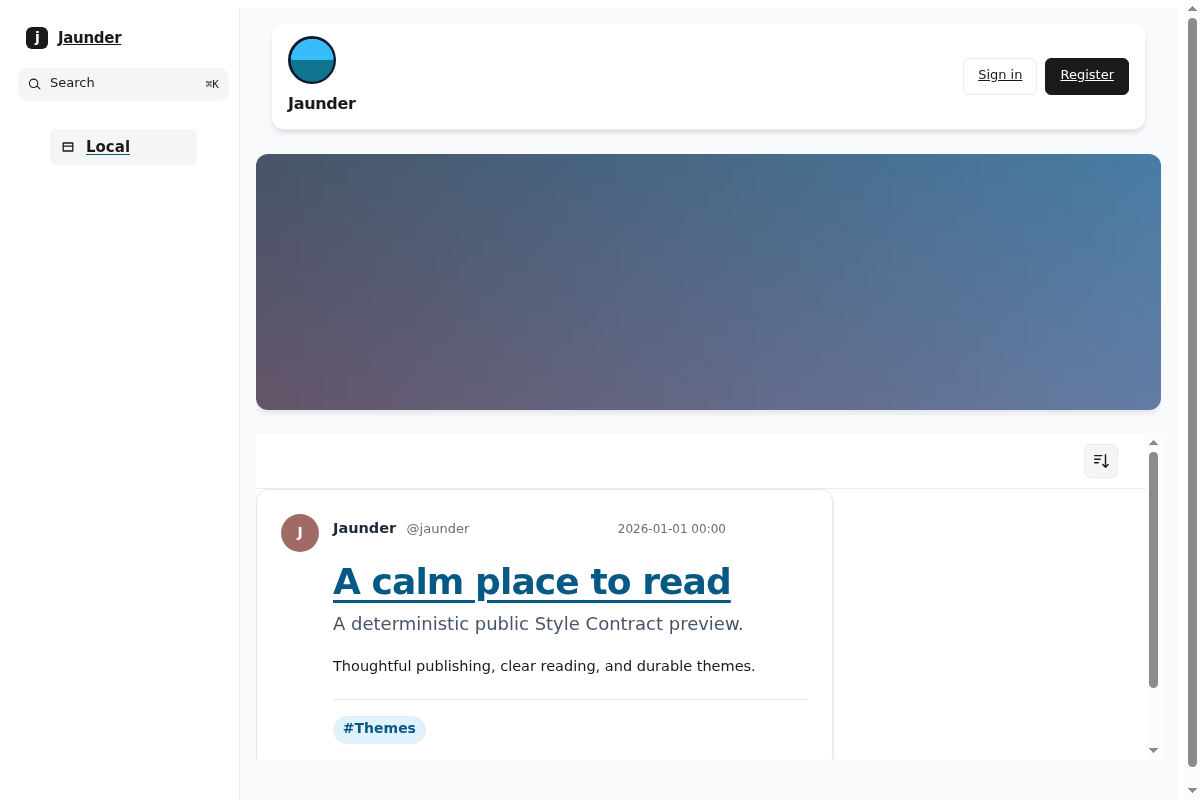
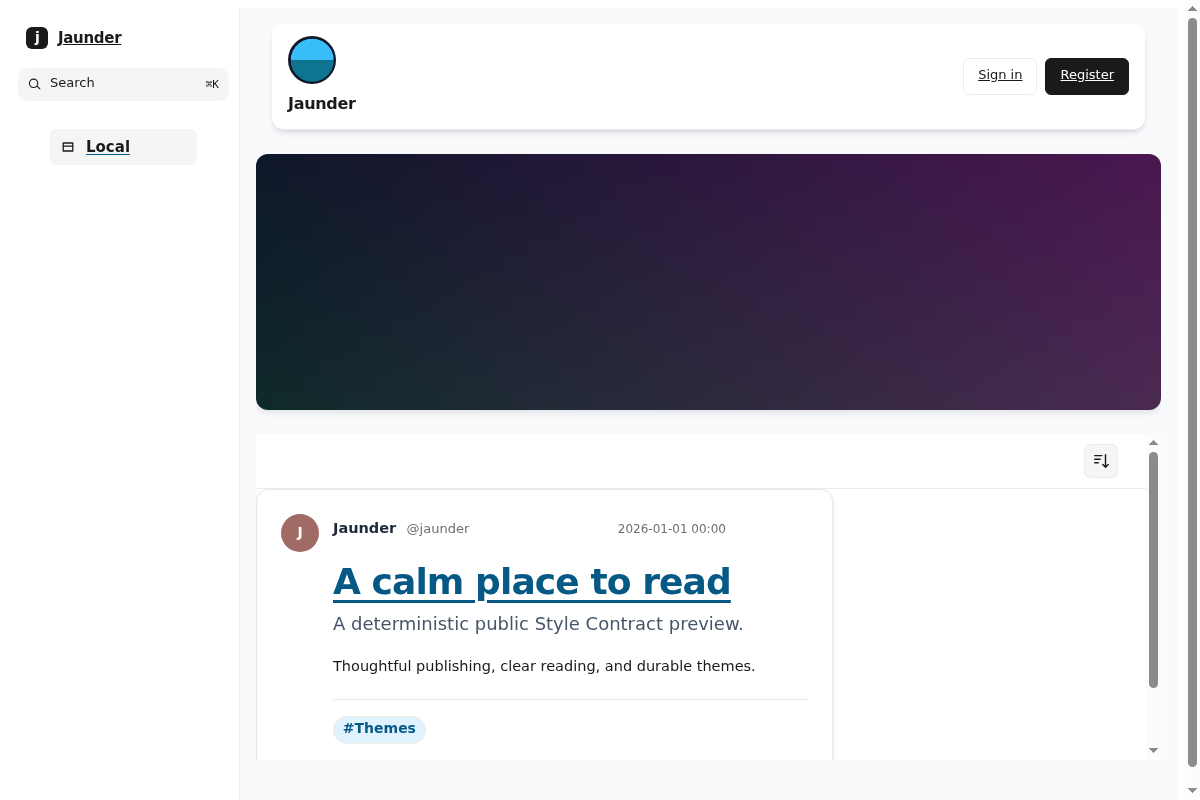
fix: preserve dark route contrast (#1549)

Changed region(s): [[0.2158, 0.1875, 0.9867, 0.5312]]

diff --git a/style.css b/style.css
@@ -1,1 +1,1 @@
-@font-face{font-family:TailwindInter;src:url(assets/inter-latin-regular.woff2);font-display:swap}:root{color:#1e293b;background:#f8fafc;min-height:100vh;font-family:TailwindInter;line-height:1.6}[data-jaunder-part=primary-navigation] a,[data-jaunder-part=post] a,[data-jaunder-part=tag-list] a{color:#075985;text-underline-offset:.16em;text-decoration-thickness:.08em}[data-jaunder-part=primary-navigation] a:hover,[data-jaunder-part=post] a:hover{color:#075985}a:focus-visible,button:focus-visible{outline-offset:3px;outline:3px solid #0284c7}[data-jaunder-part=masthead]{box-sizing:border-box;background:#fff;border-radius:.75rem;align-items:center;gap:1rem;width:min(100% - 2rem,64rem);min-height:4.5rem;margin:1rem auto 0;padding:.75rem 1rem;display:flex;box-shadow:0 4px 6px -1px #0f172a1a,0 2px 4px -2px #0f172a1a}[data-jaunder-part=logo]{object-fit:cover;border-radius:9999px;flex:none;width:3rem;height:3rem}[data-jaunder-part=site-title]{color:#0f172a;letter-spacing:-.025em;font-size:1.5rem;font-weight:700}[data-jaunder-part=primary-navigation]{flex-wrap:wrap;gap:.5rem 1rem;width:min(100% - 2rem,64rem);margin:.75rem auto;padding:0 1rem;display:flex}[data-jaunder-part=primary-navigation] a{font-size:.9375rem;font-weight:600}[data-jaunder-part=main]{box-sizing:border-box;width:min(100% - 2rem,64rem);margin:0 auto 3rem}[data-jaunder-part=header-image]{object-fit:cover;border-radius:.75rem;width:100%;max-height:16rem;margin:1.5rem 0;display:block;box-shadow:0 4px 6px -1px #0f172a1a}[data-jaunder-part=post-list]{gap:1.5rem;display:grid}[data-jaunder-part=post]{background:#fff;border:1px solid #e2e8f0;border-radius:.75rem;padding:1.5rem;overflow:visible;box-shadow:0 4px 6px -1px #0f172a1a,0 2px 4px -2px #0f172a1a}[data-jaunder-part=post-header]{color:#475569;flex-wrap:wrap;align-items:center;gap:.35rem .65rem;font-size:.875rem;display:flex}[data-jaunder-part=avatar]{object-fit:cover;border-radius:9999px;width:2rem;height:2rem}[data-jaunder-part=author-name]{color:#1e293b;font-weight:700}[data-jaunder-part=post-title]{color:#1e293b;letter-spacing:-.025em;margin:1rem 0 .5rem;font-size:clamp(1.75rem,4vw,2.25rem);line-height:1.15}[data-jaunder-part=post-summary]{color:#475569;margin:0 0 1rem;font-size:1.125rem}[data-jaunder-part=post-body]{color:#334155}[data-jaunder-part=post-body] :is(h1,h2,h3){color:#1e293b;margin:1.5em 0 .6em;line-height:1.25}[data-jaunder-part=post-body] :is(p,ul,ol,blockquote,pre){margin:1em 0}[data-jaunder-part=post-body] blockquote{color:#475569;border-left:.25rem solid #94a3b8;margin-left:0;padding-left:1rem}[data-jaunder-part=post-body] :is(code,pre){color:#0f172a;background:#e2e8f0;border-radius:.375rem;font-family:ui-monospace,monospace}[data-jaunder-part=post-body] code{padding:.15em .3em}[data-jaunder-part=post-body] pre{padding:1rem;overflow-x:auto}[data-jaunder-part=post-footer]{border-top:1px solid #e2e8f0;margin-top:1.25rem;padding-top:1rem}[data-jaunder-part=tag-list]{flex-wrap:wrap;gap:.5rem;margin:0;padding:0;list-style:none;display:flex}[data-jaunder-part=tag]{color:#075985;background:#e0f2fe;border-radius:9999px;padding:.2rem .55rem;font-size:.875rem;font-weight:600;display:inline-block}[data-jaunder-part=continuation]{color:#fff;cursor:pointer;background:#0284c7;border:0;border-radius:.5rem;justify-self:start;padding:.6rem 1rem;font-family:TailwindInter;font-weight:700}[data-jaunder-part=continuation]:hover{background:#0369a1}@media (min-width:48rem){[data-jaunder-part=post-list]{grid-template-columns:minmax(0,2fr) minmax(15rem,1fr)}[data-jaunder-part=post],[data-jaunder-part=continuation]{grid-column:1}}@media (prefers-color-scheme:dark){:root{color:#e2e8f0;background:#1f2937}[data-jaunder-part=primary-navigation] a,[data-jaunder-part=post] a{color:#7dd3fc}[data-jaunder-part=tag-list] a,[data-jaunder-part=primary-navigation] a:hover,[data-jaunder-part=post] a:hover{color:#bae6fd}[data-jaunder-part=masthead],[data-jaunder-part=post]{color:#e2e8f0;background:#374151;border-color:#4b5563}[data-jaunder-part=site-title],[data-jaunder-part=author-name]{color:#e2e8f0}[data-jaunder-part=post-title],[data-jaunder-part=post-title] a,[data-jaunder-part=post-body] :is(h1,h2,h3){color:#f1f5f9}[data-jaunder-part=post-summary],[data-jaunder-part=post-header]{color:#cbd5e1}[data-jaunder-part=post-body]{color:#d1d5db}[data-jaunder-part=post-body] :is(code,pre){color:#e2e8f0;background:#0f172a}[data-jaunder-part=tag]{color:#bae6fd;background:#164e63}}
+@font-face{font-family:TailwindInter;src:url(assets/inter-latin-regular.woff2);font-display:swap}:root{color:#1e293b;background:#f8fafc;min-height:100vh;font-family:TailwindInter;line-height:1.6}[data-jaunder-part=primary-navigation] a,[data-jaunder-part=post] a,[data-jaunder-part=tag-list] a{color:#075985;text-underline-offset:.16em;text-decoration-thickness:.08em}[data-jaunder-part=primary-navigation] a:hover,[data-jaunder-part=post] a:hover{color:#075985}a:focus-visible,button:focus-visible{outline-offset:3px;outline:3px solid #0284c7}[data-jaunder-part=masthead]{box-sizing:border-box;background:#fff;border-radius:.75rem;align-items:center;gap:1rem;width:min(100% - 2rem,64rem);min-height:4.5rem;margin:1rem auto 0;padding:.75rem 1rem;display:flex;box-shadow:0 4px 6px -1px #0f172a1a,0 2px 4px -2px #0f172a1a}[data-jaunder-part=logo]{object-fit:cover;border-radius:9999px;flex:none;width:3rem;height:3rem}[data-jaunder-part=site-title]{color:#0f172a;letter-spacing:-.025em;font-size:1.5rem;font-weight:700}[data-jaunder-part=primary-navigation]{flex-wrap:wrap;gap:.5rem 1rem;width:min(100% - 2rem,64rem);margin:.75rem auto;padding:0 1rem;display:flex}[data-jaunder-part=primary-navigation] a{font-size:.9375rem;font-weight:600}[data-jaunder-part=main]{box-sizing:border-box;width:min(100% - 2rem,64rem);margin:0 auto 3rem}[data-jaunder-part=header-image]{object-fit:cover;border-radius:.75rem;width:100%;max-height:16rem;margin:1.5rem 0;display:block;box-shadow:0 4px 6px -1px #0f172a1a}[data-jaunder-part=post-list]{gap:1.5rem;display:grid}[data-jaunder-part=post]{background:#fff;border:1px solid #e2e8f0;border-radius:.75rem;padding:1.5rem;overflow:visible;box-shadow:0 4px 6px -1px #0f172a1a,0 2px 4px -2px #0f172a1a}[data-jaunder-part=post-header]{color:#475569;flex-wrap:wrap;align-items:center;gap:.35rem .65rem;font-size:.875rem;display:flex}[data-jaunder-part=avatar]{object-fit:cover;border-radius:9999px;width:2rem;height:2rem}[data-jaunder-part=author-name]{color:#1e293b;font-weight:700}[data-jaunder-part=post-title]{color:#1e293b;letter-spacing:-.025em;margin:1rem 0 .5rem;font-size:clamp(1.75rem,4vw,2.25rem);line-height:1.15}[data-jaunder-part=post-summary]{color:#475569;margin:0 0 1rem;font-size:1.125rem}[data-jaunder-part=post-body]{color:#334155}[data-jaunder-part=post-body] :is(h1,h2,h3){color:#1e293b;margin:1.5em 0 .6em;line-height:1.25}[data-jaunder-part=post-body] :is(p,ul,ol,blockquote,pre){margin:1em 0}[data-jaunder-part=post-body] blockquote{color:#475569;border-left:.25rem solid #94a3b8;margin-left:0;padding-left:1rem}[data-jaunder-part=post-body] :is(code,pre){color:#0f172a;background:#e2e8f0;border-radius:.375rem;font-family:ui-monospace,monospace}[data-jaunder-part=post-body] code{padding:.15em .3em}[data-jaunder-part=post-body] pre{padding:1rem;overflow-x:auto}[data-jaunder-part=post-footer]{border-top:1px solid #e2e8f0;margin-top:1.25rem;padding-top:1rem}[data-jaunder-part=tag-list]{flex-wrap:wrap;gap:.5rem;margin:0;padding:0;list-style:none;display:flex}[data-jaunder-part=tag]{color:#075985;background:#e0f2fe;border-radius:9999px;padding:.2rem .55rem;font-size:.875rem;font-weight:600;display:inline-block}[data-jaunder-part=continuation]{color:#fff;cursor:pointer;background:#0284c7;border:0;border-radius:.5rem;justify-self:start;padding:.6rem 1rem;font-family:TailwindInter;font-weight:700}[data-jaunder-part=continuation]:hover{background:#0369a1}@media (min-width:48rem){[data-jaunder-part=post-list]{grid-template-columns:minmax(0,2fr) minmax(15rem,1fr)}[data-jaunder-part=post],[data-jaunder-part=continuation]{grid-column:1}}@media (prefers-color-scheme:dark){:root{color:#e2e8f0;background:#1f2937}[data-jaunder-part=primary-navigation] a,[data-jaunder-part=post] a{color:#7dd3fc}[data-jaunder-part=tag-list] a,[data-jaunder-part=primary-navigation] a:hover,[data-jaunder-part=post] a:hover{color:#bae6fd}[data-jaunder-part=masthead],[data-jaunder-part=post]{color:#e2e8f0;background:#374151;border-color:#4b5563}[data-jaunder-part=site-title],[data-jaunder-part=author-name]{color:#e2e8f0}[data-jaunder-part=post-title],[data-jaunder-part=post-title] a,[data-jaunder-part=masthead] h1,[data-jaunder-part=post-body] :is(h1,h2,h3){color:#f1f5f9}[data-jaunder-part=post-summary],[data-jaunder-part=post-header],[data-jaunder-part=author-handle],[data-jaunder-part=published-time]{color:#cbd5e1}[data-jaunder-part=post-body],[data-jaunder-part=post-body] :is(p,ul,ol,blockquote){color:#d1d5db}[data-jaunder-part=post-body] :is(code,pre){color:#e2e8f0;background:#0f172a}[data-jaunder-part=tag]{color:#bae6fd;background:#164e63}}

diff --git a/src/theme.css b/src/theme.css
@@ -38,4 +38,4 @@ button:focus-visible { outline: 3px solid #0284c7; outline-offset: 3px; }
 [data-jaunder-part="continuation"] { justify-self: start; padding: .6rem 1rem; border: 0; border-radius: .5rem; background: #0284c7; color: #fff; font-family: TailwindInter; font-weight: 700; cursor: pointer; }
 [data-jaunder-part="continuation"]:hover { background: #0369a1; }
 @media (min-width: 48rem) { [data-jaunder-part="post-list"] { grid-template-columns: minmax(0, 2fr) minmax(15rem, 1fr); } [data-jaunder-part="post"] { grid-column: 1; } [data-jaunder-part="continuation"] { grid-column: 1; } }
-@media (prefers-color-scheme: dark) { :root { color: #e2e8f0; background: #1f2937; } [data-jaunder-part="primary-navigation"] a, [data-jaunder-part="post"] a { color: #7dd3fc; } [data-jaunder-part="tag-list"] a { color: #bae6fd; } [data-jaunder-part="primary-navigation"] a:hover, [data-jaunder-part="post"] a:hover { color: #bae6fd; } [data-jaunder-part="masthead"], [data-jaunder-part="post"] { color: #e2e8f0; background: #374151; border-color: #4b5563; } [data-jaunder-part="site-title"], [data-jaunder-part="author-name"] { color: #e2e8f0; } [data-jaunder-part="post-title"], [data-jaunder-part="post-title"] a, [data-jaunder-part="post-body"] :is(h1,h2,h3) { color: #f1f5f9; } [data-jaunder-part="post-summary"], [data-jaunder-part="post-header"] { color: #cbd5e1; } [data-jaunder-part="post-body"] { color: #d1d5db; } [data-jaunder-part="post-body"] :is(code,pre) { background: #0f172a; color: #e2e8f0; } [data-jaunder-part="tag"] { background: #164e63; color: #bae6fd; } }
+@media (prefers-color-scheme: dark) { :root { color: #e2e8f0; background: #1f2937; } [data-jaunder-part="primary-navigation"] a, [data-jaunder-part="post"] a { color: #7dd3fc; } [data-jaunder-part="tag-list"] a { color: #bae6fd; } [data-jaunder-part="primary-navigation"] a:hover, [data-jaunder-part="post"] a:hover { color: #bae6fd; } [data-jaunder-part="masthead"], [data-jaunder-part="post"] { color: #e2e8f0; background: #374151; border-color: #4b5563; } [data-jaunder-part="site-title"], [data-jaunder-part="author-name"] { color: #e2e8f0; } [data-jaunder-part="post-title"], [data-jaunder-part="post-title"] a, [data-jaunder-part="masthead"] h1, [data-jaunder-part="post-body"] :is(h1,h2,h3) { color: #f1f5f9; } [data-jaunder-part="post-summary"], [data-jaunder-part="post-header"], [data-jaunder-part="author-handle"], [data-jaunder-part="published-time"] { color: #cbd5e1; } [data-jaunder-part="post-body"], [data-jaunder-part="post-body"] :is(p,ul,ol,blockquote) { color: #d1d5db; } [data-jaunder-part="post-body"] :is(code,pre) { background: #0f172a; color: #e2e8f0; } [data-jaunder-part="tag"] { background: #164e63; color: #bae6fd; } }

diff --git a/PROVING-GROUND.md b/PROVING-GROUND.md
@@ -138,3 +138,24 @@ compound order while preserving component order within each compound. Regression
 coverage includes this package's selector plus multi-component compounds and
 mixed combinators; required validation and the full e2e matrix passed. This
 repository pins both the reusable workflow and Jaunder binary to that commit.
+
+## 2026-09-18: dark permalink contrast
+
+**Observed final installed-artifact failure:** canonical run `35291517641`
+installed artifact SHA-256
[1 lines of base64/hex data omitted]
+Jaunder commit `d2f9e457`. Light Local, author, tag, and permalink proofs
+passed, but dark permalink Axe found the masthead `h1` and post-body `p` at
+1.68:1 on `#374151`, plus semantic `author-handle` and `published-time` at
+2.01:1. Each missed the 4.5:1 normal-text AA target.
+
+**Classification:** Theme-authoring defect. The installed artifact did not
+supply explicit dark values for these Style Contract semantic hooks, allowing
+lower-contrast inherited values on the dark card background; this is neither a
+Jaunder compiler nor a Style Contract defect.
+
+**Resolution:** in the existing dark media rule, assign masthead `h1` the
+light-heading `#f1f5f9`; assign `author-handle` and `published-time` the
+muted-light `#cbd5e1`; and explicitly assign post-body
+`:is(p,ul,ol,blockquote)` `#d1d5db`. The selectors use only Style Contract
+semantic hooks and no Jaunder classes.
